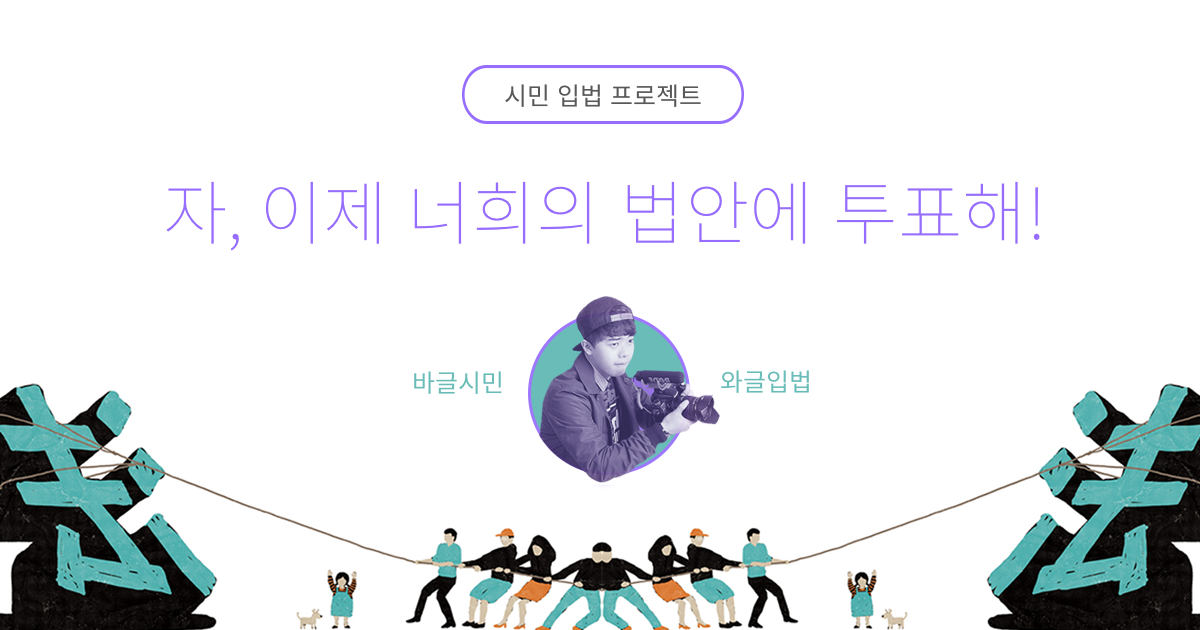
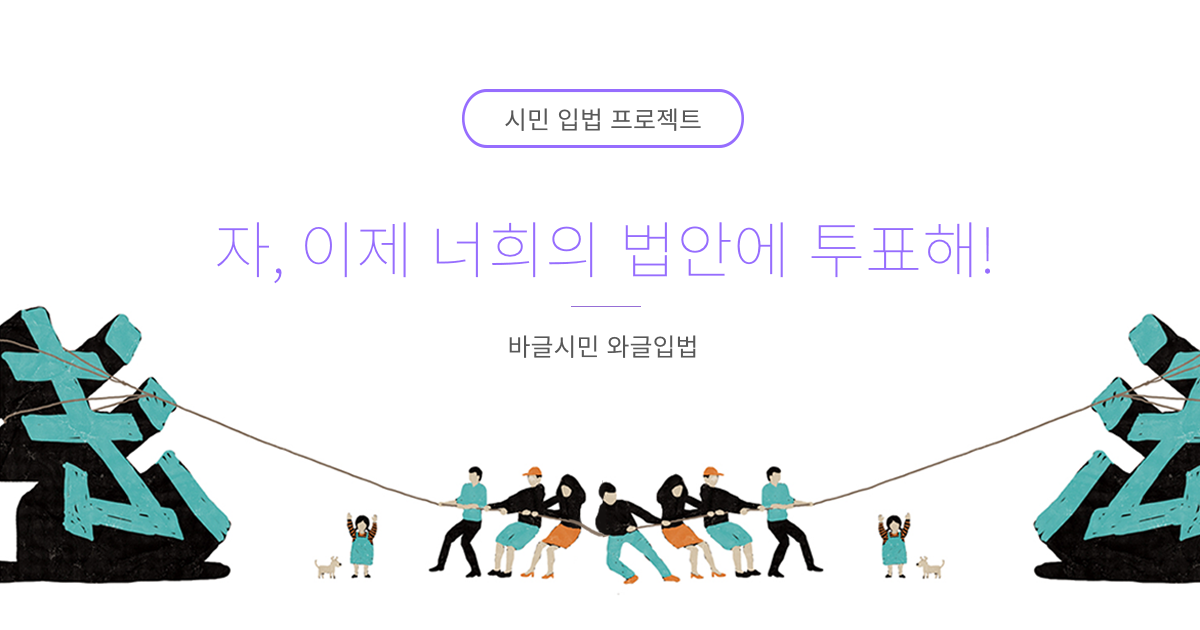
mobile style

diff --git a/app/assets/stylesheets/application.scss b/app/assets/stylesheets/application.scss
@@ -124,6 +124,7 @@ section#description {
 }
 
 section#navigator {
+  margin-bottom: 70px;
   .container{
     width: 100%;
 
@@ -221,7 +222,9 @@ section.bill {
   margin-bottom: 70px;
 
   .container {
-    background-size: cover;
+    @media (min-width: 768px) {
+      background-size: cover;
+    }
     background-position-x: center;
     padding-right: 0;
     padding-left: 0;
@@ -229,7 +232,7 @@ section.bill {
 
   h2 {
     color: #fff;
-    font-size: 45px;
+    font-size: 2em;
     font-weight: 100;
     margin-top: 40px;
     margin-bottom: 40px;
@@ -240,14 +243,21 @@ section.bill {
     height: 435px;
     position: relative;
     .bill-description {
-      color: #fff;
+      p {
+        color: #fff;
+        font-weight: 100;
+      }
       width: 100%;
       position: absolute;
       bottom: 0;
       padding-top: 20px;
       padding-bottom: 20px;
-      padding-left: 50px;
-      padding-right: 50px;
+      padding-left: 15px;
+      padding-right: 15px;
+      @media (min-width: 768px) {
+        padding-left: 50px;
+        padding-right: 50px;
+      }
     }
   }
 
@@ -263,8 +273,12 @@ section.bill {
   }
 
   .bill-vote {
-    padding-left: 50px;
-    padding-right: 50px;
+    padding-left: 15px;
+    padding-right: 15px;
+    @media (min-width: 768px) {
+      padding-left: 50px;
+      padding-right: 50px;
+    }
     padding-top: 30px;
     padding-bottom: 50px;
     color: #fff;
@@ -310,8 +324,10 @@ section.bill {
   &.bill--date-violence {
     .bill-show .bill-description,
     .bill-vote {
-      color: #585858;
       background-color: rgba(234, 191, 192, 0.95);
+      p, span {
+        color: #585858;
+      }
     }
   }
 
@@ -321,8 +337,10 @@ section.bill {
     }
     .bill-show .bill-description,
     .bill-vote {
-      color: #585858;
       background-color: rgba(252, 218, 166, 0.94);
+      p, span {
+        color: #585858;
+      }
     }
   }
 }
